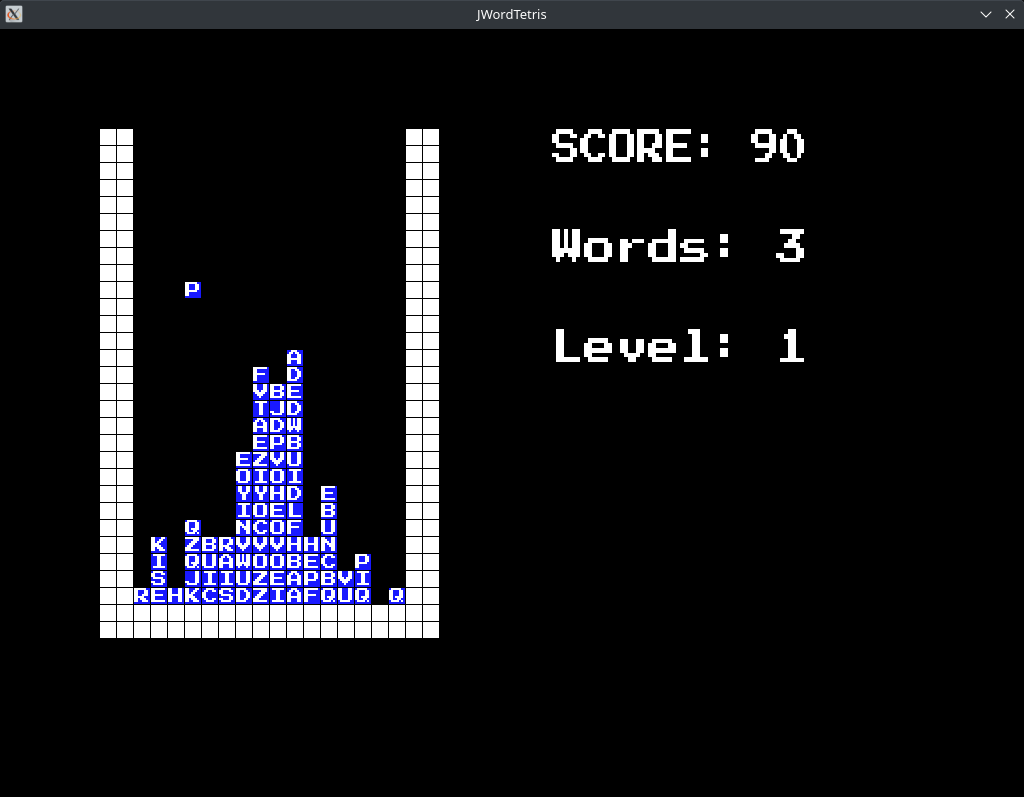
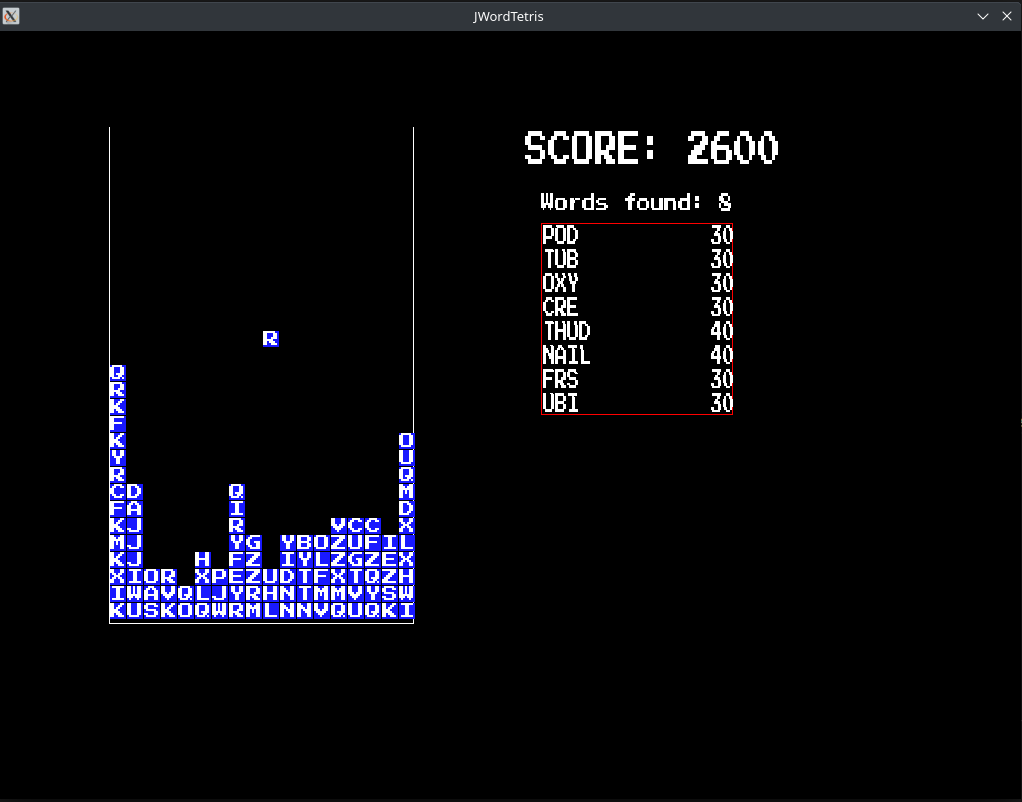
Draw map borders + points to word list

diff --git a/Game.cpp b/Game.cpp
@@ -127,7 +127,7 @@ void Game::ProcessInput()
                         gameStopped = !gameStopped;
                         break;
                     case SDLK_h:
-                        hideInfo = !hideInfo;
+                        hideKeyboardInfo = !hideKeyboardInfo;
                         break;
                     case SDLK_SPACE:
                         for (int i = 0; i < mMapHeight - 2; i++)
@@ -141,7 +141,7 @@ void Game::ProcessInput()
                         InsertBlock();
                         if (gameRestarted)
                             gameRestarted = false;
-                        hideInfo = true;
+                        hideKeyboardInfo = true;
                         break;
                 }
                 break;
@@ -183,47 +183,9 @@ void Game::GenerateOutput() const
     SDL_SetRenderDrawColor(mRenderer, 255, 255, 255, 255);
 
     DrawDebugStuff();
-
-    for (int x = 0; x < mMapWidth; x++)
-    {
-        for (int y = 0; y < mMapHeight; y++)
-        {
-            const auto& block = mGameMap[x][y];
-            if (block.Type == WALL || block.Type == MOVING || block.Type == DROPPED)
-            {
-                SDL_Rect mapRect;
-                mapRect.x = (mBlockSize * 6) + x * (mBlockSize + mBlockGap);
-                mapRect.y = (mBlockSize * 6) + y * (mBlockSize + mBlockGap);
-                mapRect.h = mBlockSize;
-                mapRect.w = mBlockSize;
-
-                SDL_SetRenderDrawColor(mRenderer, block.Color.r, block.Color.g, block.Color.b, block.Color.a);
-                SDL_RenderFillRect(mRenderer, &mapRect);
-                RenderText(std::string(1, block.Character), mapRect.x, mapRect.y, mapRect.w, mapRect.h);
-            }
-        }
-    }
-
+    DrawMap();
     DrawWordList();
-
-    if (!hideInfo)
-    {
-        RenderText("Use wasd or arrow keys for movement",
-            mConfiguration->screenWidth / 2 + mBlockSize,
-            mConfiguration->screenHeight / 2 + mBlockSize,
-            mConfiguration->screenWidth / 3,
-            mConfiguration->screenHeight / 16);
-        RenderText("Press p to pause game",
-            mConfiguration->screenWidth / 2 + mBlockSize,
-            mConfiguration->screenHeight / 2 + mBlockSize * 6,
-            mConfiguration->screenWidth / 3,
-            mConfiguration->screenHeight / 16);
-        RenderText("Press enter to start game",
-            mConfiguration->screenWidth / 2 + mBlockSize,
-            mConfiguration->screenHeight / 2 + mBlockSize * 12,
-            mConfiguration->screenWidth / 3,
-            mConfiguration->screenHeight / 16);
-    }
+    DrawKeyboardInfo();
 
     std::string scoreText = "SCORE: " + std::to_string(mScore);
     RenderText(scoreText.c_str(), mConfiguration->screenWidth / 2 + mBlockSize, 100 , mConfiguration->screenWidth / 4, mConfiguration->screenHeight / 20);
@@ -263,9 +225,9 @@ void Game::UpdateBlocks()
         return;
 
     std::vector<Vector2> wordPositions;
-    for (int y = 0; y < mMapHeight - 2; y++)
+    for (int y = 0; y < mMapHeight - 1; y++)
     {
-        for (int x = 2; x < mMapWidth - 2; x++)
+        for (int x = 1; x < mMapWidth - 1; x++)
         {
             if (mGameMap[x][y].Type == DROPPED && mGameMap[x][y + 1].Type == EMPTY)
             {
@@ -359,9 +321,9 @@ void Game::RenderText(std::string_view text, int x, int y, int w, int h) const
 
 void Game::EmptyMap()
 {
-    for (int y = 0; y < mMapHeight - 2; y++)
+    for (int y = 0; y < mMapHeight - 1; y++)
     {
-        for (int x = 2; x < mMapWidth - 2; x++)
+        for (int x = 1; x < mMapWidth - 1; x++)
         {
             mGameMap[x][y].Type = EMPTY;
         }
@@ -385,7 +347,7 @@ std::vector<Vector2> Game::CheckForWords(int x, int y)
     std::vector<Vector2> wordPositions;
 
     std::string word;
-    for (int xpos = x; xpos < mMapWidth - 2; xpos++)
+    for (int xpos = x; xpos < mMapWidth - 1; xpos++)
     {
         const auto& block = mGameMap[xpos][y];
 
@@ -396,7 +358,10 @@ std::vector<Vector2> Game::CheckForWords(int x, int y)
         wordPositions.emplace_back(Vector2{xpos, y});
         if (std::binary_search(mWordList.begin(), mWordList.end(), word))
         {
-            mWordsFound.push_back(word);
+            WordScore score;
+            score.word = word;
+            score.score = word.length() * 10;
+            mWordsFound.push_back(score);
             if(mWordsFound.size() > 8)
                 mWordsFound.pop_front();
             return wordPositions;
@@ -405,7 +370,7 @@ std::vector<Vector2> Game::CheckForWords(int x, int y)
 
     wordPositions.clear();
     word.clear();
-    for (int ypos = y; ypos < mMapHeight - 2; ypos++)
+    for (int ypos = y; ypos < mMapHeight - 1; ypos++)
     {
         const auto& block = mGameMap[x][ypos];
 
@@ -416,7 +381,10 @@ std::vector<Vector2> Game::CheckForWords(int x, int y)
         wordPositions.emplace_back(Vector2{x, ypos});
         if (std::binary_search(mWordList.begin(), mWordList.end(), word))
         {
-            mWordsFound.push_back(word);
+            WordScore score;
+            score.word = word;
+            score.score = word.length() * 10;
+            mWordsFound.push_back(score);
             if(mWordsFound.size() > 8)
                 mWordsFound.pop_front();
             return wordPositions;
@@ -429,6 +397,38 @@ std::vector<Vector2> Game::CheckForWords(int x, int y)
 char Game::GetRandomCharacter()
 {
     return mConfiguration->blockCharset[characterDistribution(mRandomNumberGenerator)];
+}
+
+void Game::DrawMap() const
+{
+    const int xOffset = mBlockSize * 6;
+    const int yOffset = mBlockSize * 6;
+    // Left vertical line
+    SDL_RenderDrawLine(mRenderer, xOffset + mBlockSize, yOffset, xOffset + mBlockSize, yOffset + mMapHeight * mBlockSize + mBlockSize);
+    // Right vertical line
+    SDL_RenderDrawLine(mRenderer, xOffset + (mBlockSize * mMapWidth), yOffset, xOffset + (mBlockSize * mMapWidth), yOffset + mMapHeight * mBlockSize + mBlockSize);
+    // Horizontal line
+    SDL_RenderDrawLine(mRenderer, xOffset + mBlockSize, yOffset + (mBlockSize * mMapHeight) + mBlockSize, xOffset + (mBlockSize * mMapWidth), yOffset + (mBlockSize * mMapHeight) + mBlockSize);
+
+    for (int x = 0; x < mMapWidth; x++)
+    {
+        for (int y = 0; y < mMapHeight; y++)
+        {
+            const auto& block = mGameMap[x][y];
+            if (block.Type == MOVING || block.Type == DROPPED)
+            {
+                SDL_Rect mapRect;
+                mapRect.x = xOffset + x * (mBlockSize + mBlockGap);
+                mapRect.y = yOffset + y * (mBlockSize + mBlockGap);
+                mapRect.h = mBlockSize;
+                mapRect.w = mBlockSize;
+
+                SDL_SetRenderDrawColor(mRenderer, block.Color.r, block.Color.g, block.Color.b, block.Color.a);
+                SDL_RenderFillRect(mRenderer, &mapRect);
+                RenderText(std::string(1, block.Character), mapRect.x, mapRect.y, mapRect.w, mapRect.h);
+            }
+        }
+    }
 }
 
 void Game::DrawWordList() const
@@ -445,11 +445,38 @@ void Game::DrawWordList() const
     int wordY = wordBox.y;
     int characterSize = wordBox.w / mConfiguration->maxWordLength;
     int padding = 2;
-    for(const auto &word : mWordsFound)
+    for(const auto &wordScore : mWordsFound)
     {
-        const auto &wordLength = word.length();
-        RenderText(word, wordBox.x + padding, wordY + padding, wordLength * characterSize, wordBox.h / 8 - padding);
+        // TODO: Format with something nicer
+        char buffer [32];
+        const auto scoreText = std::to_string(wordScore.score);
+        sprintf(buffer, "%s%*s%s", wordScore.word.c_str(), static_cast<int>(mConfiguration->maxWordLength - wordScore.word.length() - scoreText.length() + 1) ,"",  scoreText.c_str());
+        std::string wordScoreText(buffer);
+        const auto &wordLength = wordScoreText.length();
+        RenderText(wordScoreText, wordBox.x + padding, wordY + padding, wordLength * characterSize, wordBox.h / 8 - padding);
         wordY += wordBox.h / 8;
+    }
+}
+
+void Game::DrawKeyboardInfo() const
+{
+    if (!hideKeyboardInfo)
+    {
+        RenderText("Use wasd or arrow keys for movement",
+            mConfiguration->screenWidth / 2 + mBlockSize,
+            mConfiguration->screenHeight / 2 + mBlockSize,
+            mConfiguration->screenWidth / 3,
+            mConfiguration->screenHeight / 16);
+        RenderText("Press p to pause game",
+            mConfiguration->screenWidth / 2 + mBlockSize,
+            mConfiguration->screenHeight / 2 + mBlockSize * 6,
+            mConfiguration->screenWidth / 3,
+            mConfiguration->screenHeight / 16);
+        RenderText("Press enter to start game",
+            mConfiguration->screenWidth / 2 + mBlockSize,
+            mConfiguration->screenHeight / 2 + mBlockSize * 12,
+            mConfiguration->screenWidth / 3,
+            mConfiguration->screenHeight / 16);
     }
 }
 

diff --git a/Game.h b/Game.h
@@ -14,6 +14,11 @@
 #include "Block.h"
 
 struct GameConfiguration;
+struct WordScore
+{
+   std::string word;
+   int score;
+};
 
 class Game
 {
@@ -39,7 +44,9 @@ class Game
     bool UpdatePosition(int x, int y);
     std::vector<Vector2> CheckForWords(int x, int y);
     void RenderText(std::string_view text, int x, int y, int w, int h) const;
+    void DrawMap() const;
     void DrawWordList() const;
+    void DrawKeyboardInfo() const;
 
     void DrawDebugStuff() const;
 
@@ -52,7 +59,7 @@ class Game
     bool isBlock {false};
     bool gameRestarted {false};
     bool gameStopped {false};
-    bool hideInfo {false};
+    bool hideKeyboardInfo {false};
 
     const int mMapWidth {20};
     const int mMapHeight {30};
@@ -79,6 +86,6 @@ class Game
     std::vector<std::vector<Block>> mGameMap;
     std::unique_ptr<Block> mBlock;
 
-    std::deque<std::string> mWordsFound;
+    std::deque<WordScore> mWordsFound;
 };
 
